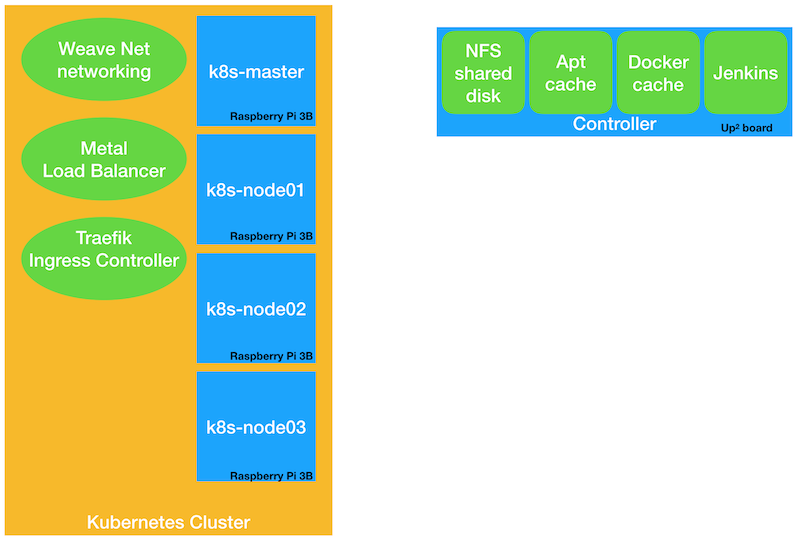
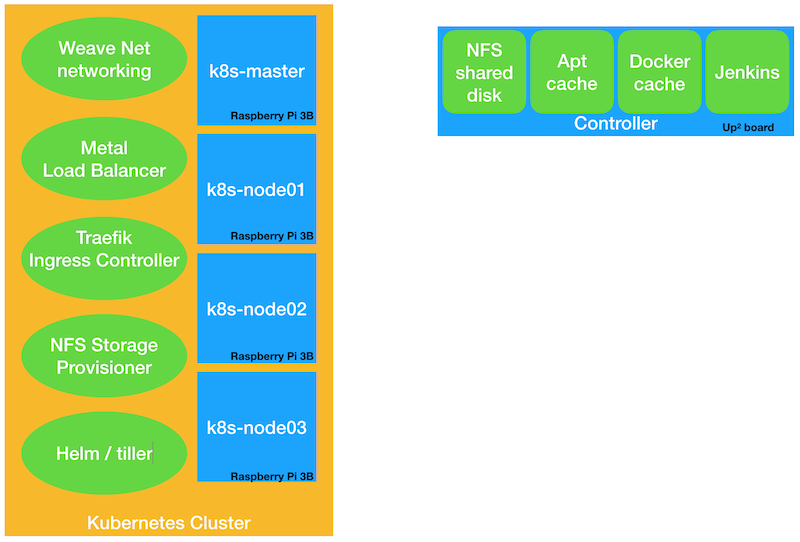
updated cluster image

Changed region(s): [[0.0, 0.0, 0.4375, 0.9151], [0.5312, 0.0295, 1.0, 0.2657], [0.0, 0.9446, 0.4062, 1.0]]

diff --git a/scripts/deployHelm.py b/scripts/deployHelm.py
@@ -28,7 +28,7 @@ def runRemoteCommandWithReturn(host, cmd):
 with open('scripts/config.json') as f:
     config = json.load(f)
 
-# Deploy Metal LoadBalancer
+# Deploy Helm / tiller
 for sysType in config["testMachines"]["systems"]:
     if sysType["type"] == "pi3B":
         for host in sysType["hosts"]:
